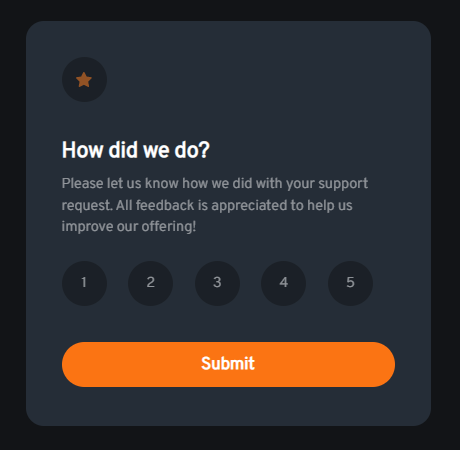
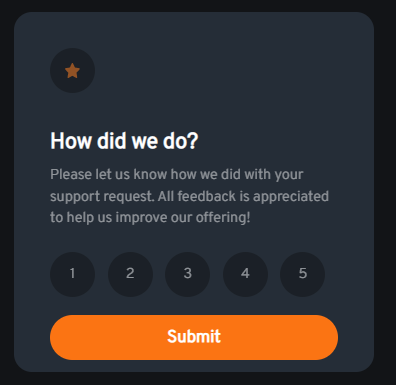
readmefix

diff --git a/3-interactive-rating-component/style.css b/3-interactive-rating-component/style.css
@@ -21,8 +21,8 @@
     background-color: var(--VeryDarkBlue);
 }
 .item{
-    height: 450px;
-    width: 450px;
+    height: 400px;
+    width: 400px;
     border-radius: 20px;
     background-color: var(--DarkBlue);
 }
@@ -72,7 +72,7 @@
     display: flex;
     align-items: center;
     justify-content: center;
-    margin-top: 40px;
+    margin-top: 20px;
 }
 .button:hover{
     background-color: var(--White);

diff --git a/README.md b/README.md
@@ -4,7 +4,13 @@ This project is a project where I applied the challenges on www.frontendmentor.i
 
 ---
 
-<div class="container" style="display:flex;">
+1            |  2
+:-------------------------:|:-------------------------:
+**1.Result Summary Component**![](/component-images/1.png)  |  **2.Product Preview Card Component**![](/component-images/2.png)
+**3.Interactive Rating Component**![](/component-images/3.png)  | 
+
+
+<!-- <div class="container" style="display:flex;">
     <div class="left" style="flex: 50%;">
             <h3> 1.Result Summary Component</h3>
             <img src="/component-images/1.png" alt="" style="width:400px;height:400px">
@@ -17,4 +23,4 @@ This project is a project where I applied the challenges on www.frontendmentor.i
             <h3> 3.Interactive Rating Component</h3>
             <img src="/component-images/3.png" alt="" style="width:400px;height:400px">
     </div>
-</div>
+</div> -->
